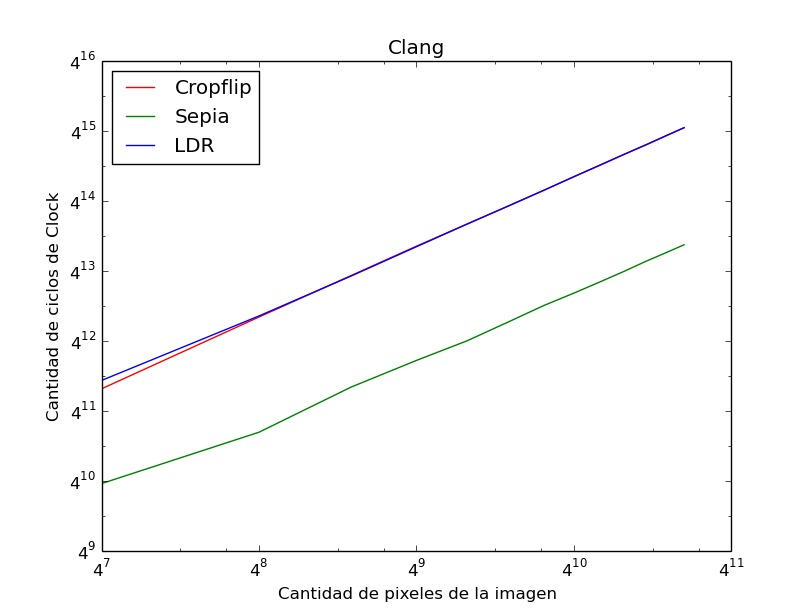
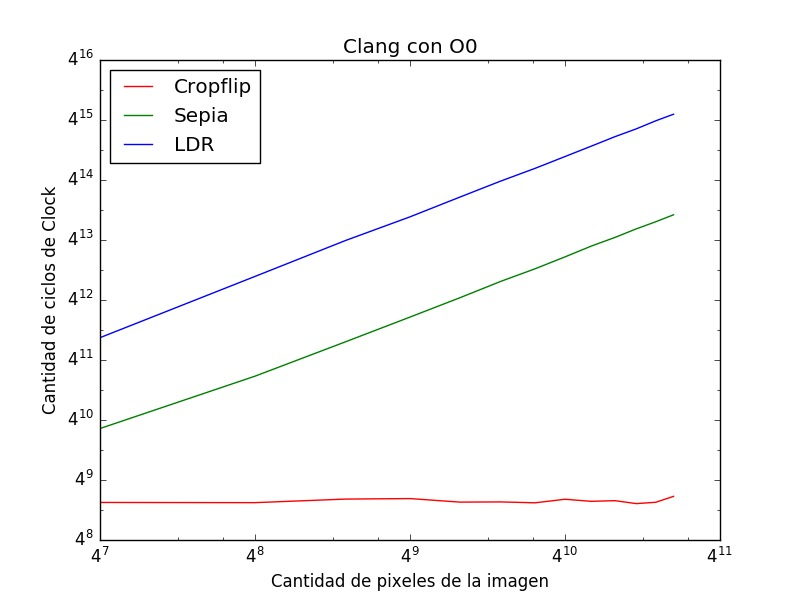
Fixes

diff --git a/documentos/Com.tex b/documentos/Com.tex
@@ -1,23 +1,24 @@
 \section{Compiladores}
 Un compilador no es mas que un programa que basicamente, toma el codigo C 
-y lo traduce a codigo de maquina. Existen varios para C, como ser GCC, Clang y el Compilador de Intel. Lo que vamos a hacer es compilar el codigo con Clang/GCC y ver si encontramos diferencias.Para comparar, se van a usar la version 4.8.4 de GCC y la 3.4 de Clang. 
-Para realizar la comparacion, vamos a compilar el TP con GCC y luego con Clang.
-Para empezar, vamos a comparar con optimizacion nula
+y lo traduce a codigo de maquina. Existen varios para C, como ser GCC, Clang y el Compilador de Intel. 
+Lo que hicimos fue compilar los filtros con GCC y clang, teniendo como hipotesis que GCC anda mejor, pues en caso contrario clang vendria instalado por defecto en vez de GCC.
+Las versiones que vamos a utilizar para comparar son 5.3.1 para GCC y 3.8.0 para Clang
+%Lo que vamos a hacer es compilar el codigo con Clang/GCC y ver si encontramos diferencias.Para comparar, se van a usar la version 4.8.4 de GCC y la 3.4 de Clang. 
+%Para realizar la comparacion, vamos a compilar el TP con GCC y luego con Clang.
+%Para empezar, vamos a comparar con optimizacion nula
 Aqui el grafico de GCC
 
 \begin{figure}[H]
     \centering
     \begin{floatrow}
       \ffigbox[\FBwidth]{\caption{Filtros con GCC -O0}}{%
-        \includegraphics[scale=.50]{./imagenes/GCCO0.jpg}   
+        \includegraphics[scale=.50]{./imagenes/GCC0.jpg}   
       }
     \end{floatrow}
 \end{figure}
 
 
-
-Bueno, si alguien hubiera dicho que sepia iba a ser el filtro mas rapido, le
-hubieramos dicho que estaba loco.
+Aca vemos que Cropflip, es el filtro mas rapido. Es esperable ya que solo hace accesos a memoria mientras que sepia y cropflip hace operaciones arimeticas
 
 Aqui el grafico de Clang
 
@@ -30,17 +31,15 @@ Aqui el grafico de Clang
     \end{floatrow}
 \end{figure}
 
-Vemos que sin importar el filtro elegido, GCC le gana a clang, donde mas se nota es en Sepia, mientras que en Cropflip y LDR la diferencia es poca.
+Vemos que en Cropflip gana Clang, pero en Sepia y LDR gana GCC, en sepia es mas notorio mientras que en LDR la diferencia es bastante menor.
 
 
-Ahora, vamos a repetir el mismo experimento pero variando las flags, esta vez vamos a usar
--O3 -Wall -std=c99 -pedantic -m64
-
+Ahora, vamos a repetir el mismo experimento pero variando las flags, esta vez vamos a usar 03 y como hipotesis, esperamos ver un comportamiento similar al visto en O0.
 \begin{figure}[H]
     \centering
     \begin{floatrow}
       \ffigbox[\FBwidth]{\caption{Filtros con GCC -O0}}{%
-        \includegraphics[scale=.50]{./imagenes/GCCO3.jpg}   
+        \includegraphics[scale=.50]{./imagenes/GCC3.jpg}   
       }
     \end{floatrow}
 \end{figure}
@@ -55,6 +54,6 @@ Ahora, vamos a repetir el mismo experimento pero variando las flags, esta vez va
     \end{floatrow}
 \end{figure}
 
-Vemos que en Sepia gana GCC, en LDR gana Clang y en Cropflip hay empate tecnico
+Efectivamente, se da el comportamiento previsto, en Cropflip gana Clang mientras que en los otros gana GCC
 
 

diff --git a/documentos/informe.tex b/documentos/informe.tex
@@ -251,7 +251,7 @@ se puede observar la diferencia de tiempo de cada implementación en ciclos de r
     \centering
     \begin{floatrow}
       \ffigbox[\FBwidth]{\caption{Comparación C sin optimizar vs ASM}}{%
-        \includegraphics[scale=.25]{./imagenes/cropflip-asmVSc.jpeg}   
+        \includegraphics[scale=.25]{./imagenes/Cropflip0.jpeg}%cropflip-asmVSc.jpeg}   
       }
     \end{floatrow}
 \end{figure}
@@ -265,7 +265,7 @@ la tecnología SSE contra los que no la utilizan o no tienen.
     \centering
     \begin{floatrow}
       \ffigbox[\FBwidth]{\caption{Comparación C con optimización O3 vs ASM}}{%
-        \includegraphics[scale=.25]{./imagenes/cropflip-asmVScO3.jpeg}   
+        \includegraphics[scale=.25]{./imagenes/Cropflip3.jpeg}%cropflip-asmVScO3.jpeg}   
       }
     \end{floatrow}
 \end{figure}
